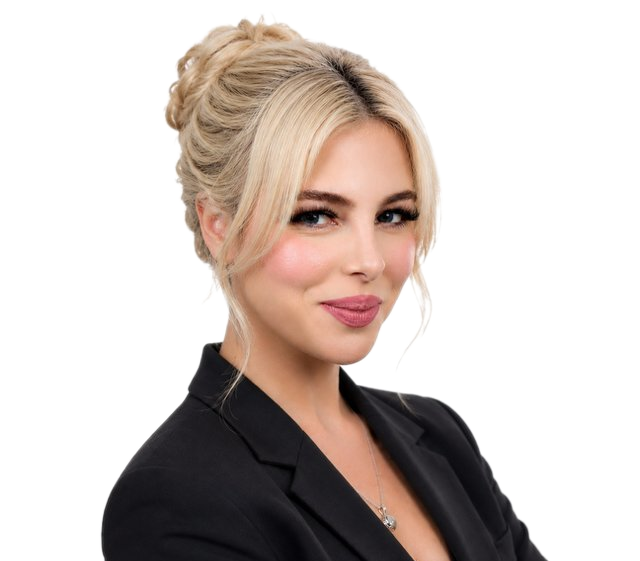
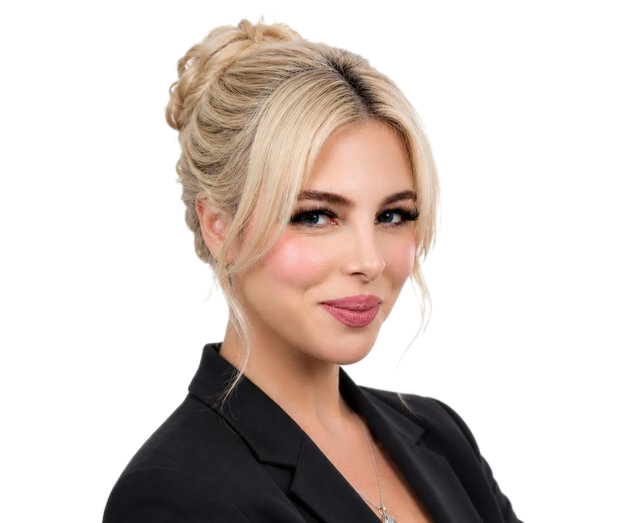
Crop another 1cm and enlarge photo container
Changes:
- Cropped additional 1cm (38 pixels) from bottom: 640x561 → 640x523
- Increased min-height: 550px → 650px for larger photo display

Result: Prominent, larger portrait with cleaner bottom edge

Changed region(s): [[0.1562, 0.0306, 0.875, 1.0]]

diff --git a/app/globals.css b/app/globals.css
@@ -616,7 +616,7 @@ section[id] {
   flex-direction: column;
   justify-content: flex-start;
   align-items: center;
-  min-height: 550px;
+  min-height: 650px;
 }
 
 .ask-sama-photo {
